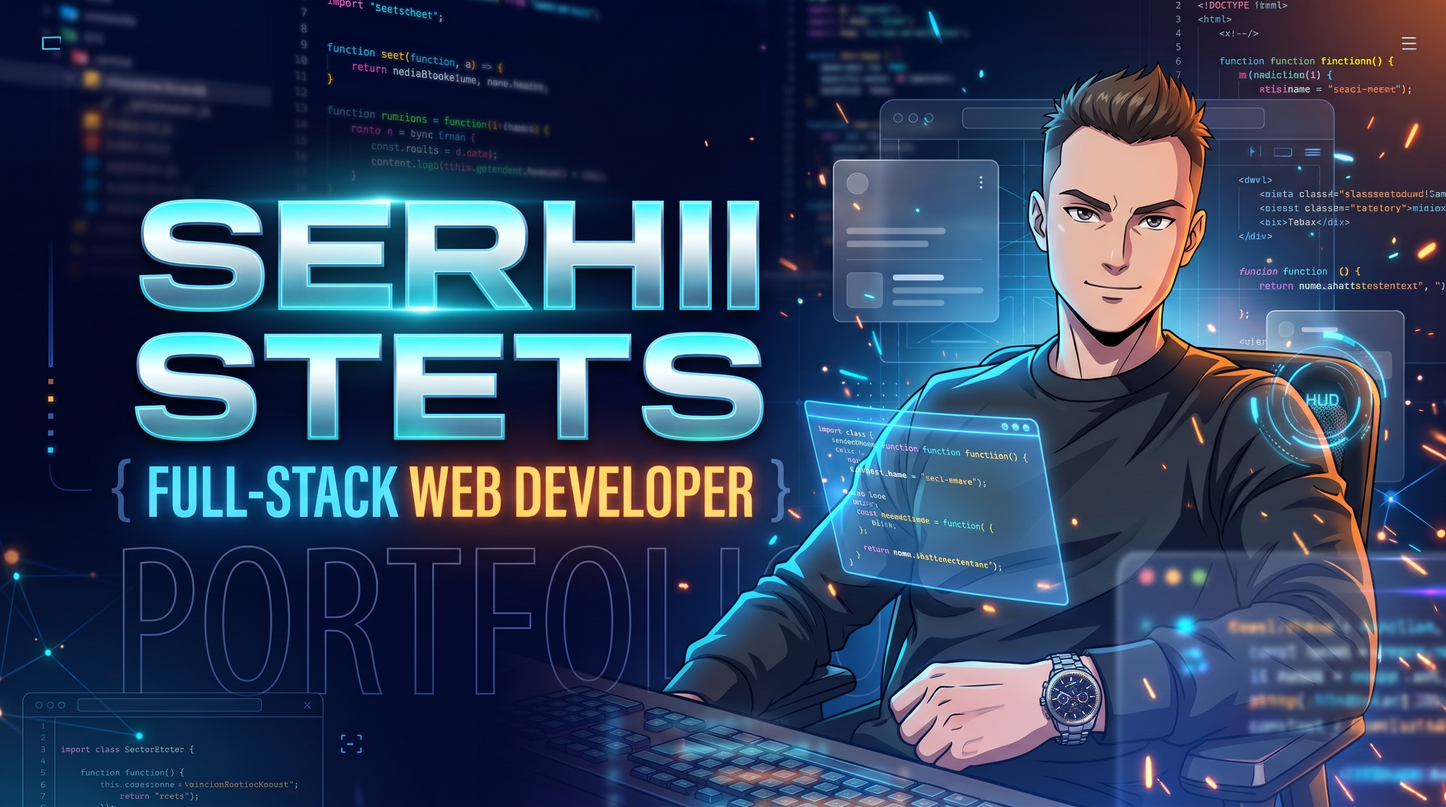
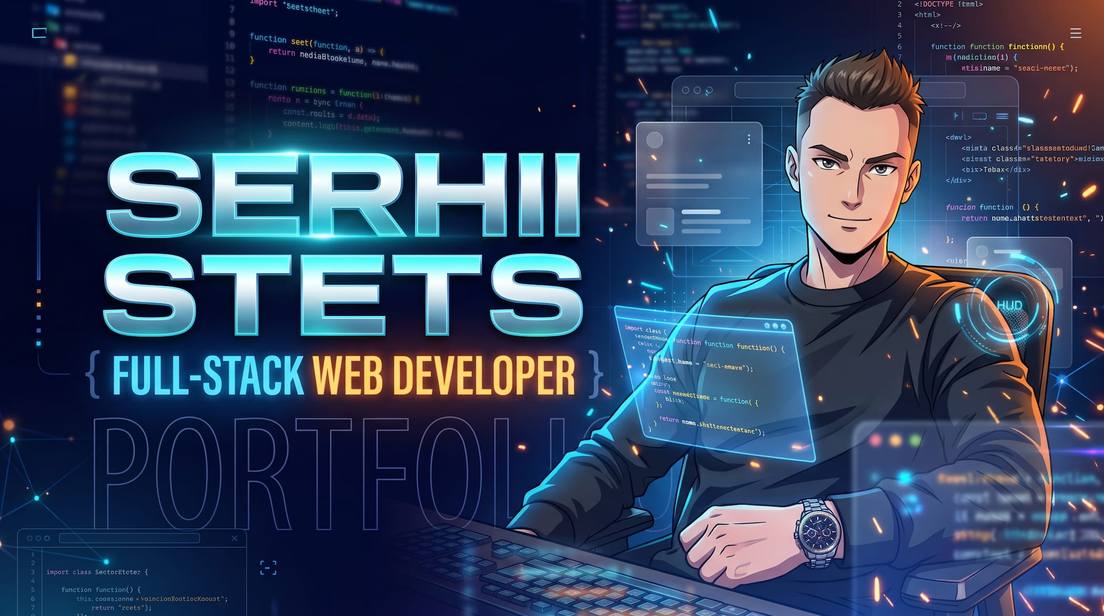
feat: контакты в подвале, сжатая обложка

Changed region(s): [[0.7119, 0.8294, 0.7738, 0.8908], [0.8976, 0.3379, 0.9595, 0.3686]]

diff --git a/app/layout.tsx b/app/layout.tsx
@@ -33,6 +33,30 @@ export default function RootLayout({ children }: LayoutProps<"/">) {
         <div className="mx-auto w-full max-w-3xl px-4 py-8">
           <Nav />
           {children}
+          <footer className="mt-12 flex flex-wrap gap-4 border-t border-foreground/20 pt-4 text-sm opacity-80">
+            <a
+              href="https://github.com/Historius"
+              target="_blank"
+              rel="noopener noreferrer"
+            >
+              GitHub
+            </a>
+            <a
+              href="https://t.me/SerGrey2033"
+              target="_blank"
+              rel="noopener noreferrer"
+            >
+              Telegram
+            </a>
+            <a href="mailto:stets.2033@gmail.com">Email</a>
+            <a
+              href="https://www.linkedin.com/in/gideon-undefined-068400268/"
+              target="_blank"
+              rel="noopener noreferrer"
+            >
+              LinkedIn
+            </a>
+          </footer>
         </div>
       </body>
     </html>
